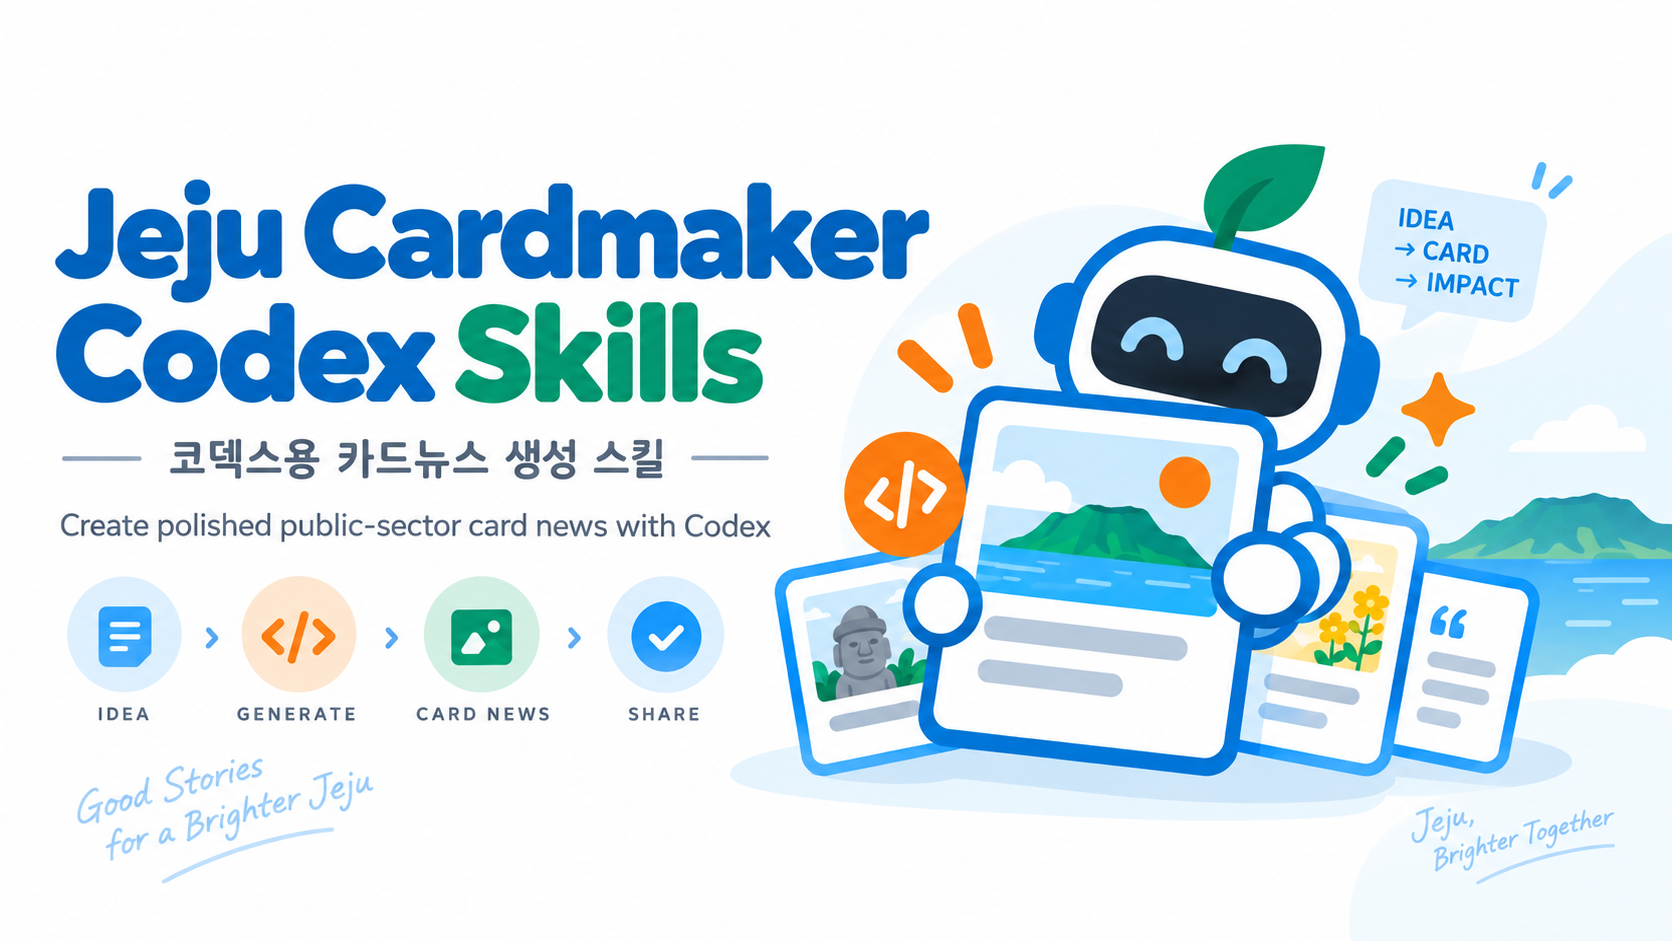
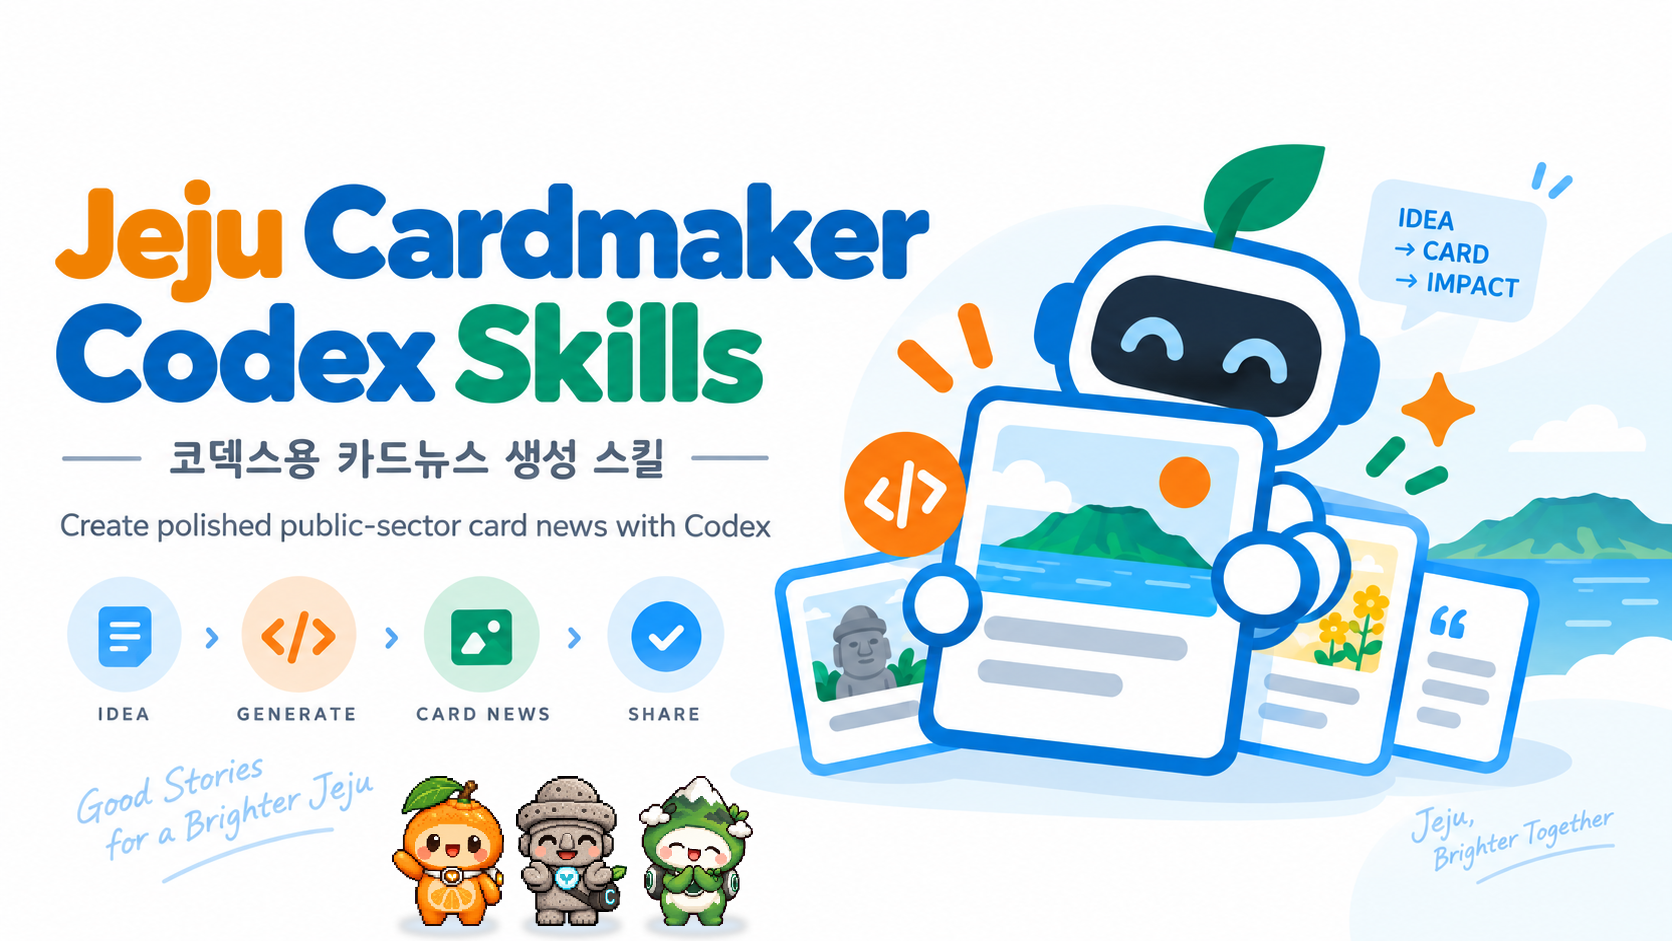
README에 표지 이미지 추가, 표지에 Jeju 주황색과 캐릭터 3종 반영

Changed region(s): [[0.2177, 0.8013, 0.4665, 1.0], [0.0311, 0.1849, 0.1866, 0.339]]

diff --git a/README.md b/README.md
@@ -1,5 +1,7 @@
 # 서귀포시 직원용 AI 카드뉴스 생성 스킬
 
+<img src="Jeju_Cardmaker_Codex_Skills.png" alt="Jeju Cardmaker Codex Skills 표지. 코덱스용 카드뉴스 생성 스킬과 아이디어·생성·카드뉴스·공유 순서, 귤귤·하르방·한라 캐릭터" width="100%">
+
 서귀포시 직원에게 AI 지식을 쉽게 설명하는 Codex 스킬 **Jeju_Cardmaker v1.3.2**입니다. 한 편에 개념 하나와 업무 예시를 담고, 제주 펫 **귤귤·하르방·한라**로 학습 내용을 안내합니다.
 
 ## 기본 디자인
